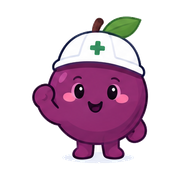
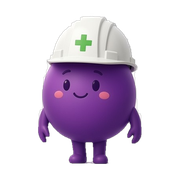
캐릭터를 3D 플럼(흰 안전모)으로 통일, 다크 모드 홈 상단 글자 대비 수정
- 로고·탭 아이콘·홈 상단·바로가기·채용 안내를 새 캐릭터로 교체
- 게시판 빈 목록에 캐릭터 표시, 404 화면에 미끄럼 주의 컷
- 홈 상단 배경을 고정 색으로 바꿔 다크 모드에서 흰 글자가 묻히던 문제 수정

Claude-Session: https://claude.ai/code/session_01VwpwWoRu48mPh6gBfEa8ad

diff --git a/assets/community.js b/assets/community.js
@@ -136,7 +136,7 @@
           h("span", { class: "cm-t" }, x.title, b !== "qna" && x.comment_count ? h("em", { "aria-label": "댓글 " + x.comment_count + "개" }, " [" + x.comment_count + "]") : null),
           state, h("span", { class: "cm-meta" }, nick(x), " · ", h("time", { datetime: x.created_at }, when(x.created_at)))));
       }));
-      var empty = !rows.length ? h("div", { class: "empty" }, h("p", null, kw || cat ? "조건에 맞는 글이 없습니다." : (b === "qna" ? "아직 질문이 없습니다. 첫 질문을 남겨 보세요." : "아직 글이 없습니다. 첫 글을 남겨 보세요."))) : null;
+      var empty = !rows.length ? h("div", { class: "empty" }, kw || cat ? null : h("img", { class: "cm-empty-i", src: REL + "assets/img/plum/wave.webp", width: "96", height: "96", alt: "" }), h("p", null, kw || cat ? "조건에 맞는 글이 없습니다." : (b === "qna" ? "아직 질문이 없습니다. 첫 질문을 남겨 보세요." : "아직 글이 없습니다. 첫 글을 남겨 보세요."))) : null;
       var pager = pages > 1 ? h("nav", { class: "cm-pager", "aria-label": "페이지" },
         p > 1 ? h("a", { class: "btn btn-sm btn-ghost", href: url("", { b: b, c: cat, q: kw, p: p - 1 }) }, "← 이전") : null,
         h("span", null, p + " / " + pages), p < pages ? h("a", { class: "btn btn-sm btn-ghost", href: url("", { b: b, c: cat, q: kw, p: p + 1 }) }, "다음 →") : null) : null;

diff --git a/assets/style.css b/assets/style.css
@@ -1236,7 +1236,7 @@ p.asof b{font-weight:700;color:var(--text-2)}
 .gnb a[aria-current="page"]{color:var(--navy)}
 .gnb a[aria-current="page"]::after{background:var(--accent);height:3px}
 .mega-col:first-child .mega-h{color:var(--muted)}
-.hero2{background:var(--navy);color:#fff}
+.hero2{background:#0F172A;color:#fff}
 .hero2-in{padding-top:44px;padding-bottom:40px;text-align:center;max-width:820px}
 .hero2-eye{font-size:13px;font-weight:700;color:var(--accent);letter-spacing:.02em;margin:0 0 8px}
 .hero2 h1{font-size:clamp(26px,4.2vw,40px);line-height:1.2;margin:0 0 22px;color:#fff;letter-spacing:-.03em}
@@ -1463,3 +1463,4 @@ img.logo-mark{width:36px;height:36px;object-fit:contain;border-radius:0}
 .hc-i:has(img){background:transparent}
 .hc-i img{width:44px;height:44px}
 .hub-links a img{border-radius:5px}
+.cm-empty-i{display:block;margin:0 auto 8px}

diff --git a/build.py b/build.py
@@ -1148,7 +1148,7 @@ def build(out, today):
     job_chips = "".join(
         f'<a class="jchip" href="{e(safe_url(s["url"]))}" target="_blank" rel="noopener">{e(s["name"])}{EXT}<span class="sr">(새 창)</span></a>'
         for s in sites.get("job_search", []) if safe_url(s.get("url")))
-    jobs_empty = (f'<div class="jempty"><div class="jempty-ico" aria-hidden="true"><img src="../assets/img/plum/search.webp" width="96" height="96" alt=""></div>'
+    jobs_empty = (f'<div class="jempty"><div class="jempty-ico" aria-hidden="true"><img src="../assets/img/plum/basic.webp" width="96" height="96" alt=""></div>'
                   f'<p class="jempty-t">채용 플랫폼의 안전·보건 공고로 바로 연결합니다.</p>'
                   f'<p class="jempty-d">아래 채용 플랫폼에서 안전·보건 직무의 실시간 공고를 바로 확인하세요.</p>'
                   f'<div class="jchips">{job_chips}</div></div>')
@@ -1433,7 +1433,7 @@ def build(out, today):
   </section>
   <aside class="home2-side">
     {month_box}
-    <section class="side-box go-box"><h2 class="h-sm go-h"><img src="assets/img/plum/laptop.webp" width="40" height="40" alt="" loading="lazy">바로 신청·신고</h2><ul class="go-list">{civil}</ul><p class="go-orgs">{orgs}</p></section>
+    <section class="side-box go-box"><h2 class="h-sm go-h"><img src="assets/img/plum/basic.webp" width="40" height="40" alt="" loading="lazy">바로 신청·신고</h2><ul class="go-list">{civil}</ul><p class="go-orgs">{orgs}</p></section>
   </aside>
 </div>
 {home_js}"""
@@ -1971,7 +1971,7 @@ def build(out, today):
     base = (site.get("base_url") or "").rstrip("/")
     base_js = ("<script>document.write('<base href=\"'+(/\\.github\\.io$/.test(location.hostname)?'/'+location.pathname.split('/')[1]+'/':'/')+'\">')</script>")
     nf = page(site, "", "404.html", "페이지를 찾을 수 없습니다",
-        '<section class="phead"><div class="wrap"><img src="assets/img/plum/warn.webp" width="110" height="110" alt=""><h1>페이지를 찾을 수 없습니다</h1><p>주소가 바뀌었거나 없는 페이지입니다.</p><p class="btns"><a class="btn" href="./">홈으로</a></p></div></section>')
+        '<section class="phead"><div class="wrap"><img src="assets/img/plum/st-slip.webp" width="120" height="120" alt=""><h1>페이지를 찾을 수 없습니다</h1><p>주소가 바뀌었거나 없는 페이지입니다.</p><p class="btns"><a class="btn" href="./">홈으로</a></p></div></section>')
     (out / "404.html").write_text(nf.replace('<meta charset="utf-8">', '<meta charset="utf-8">\n' + base_js, 1), encoding="utf-8")
 
     if base:
